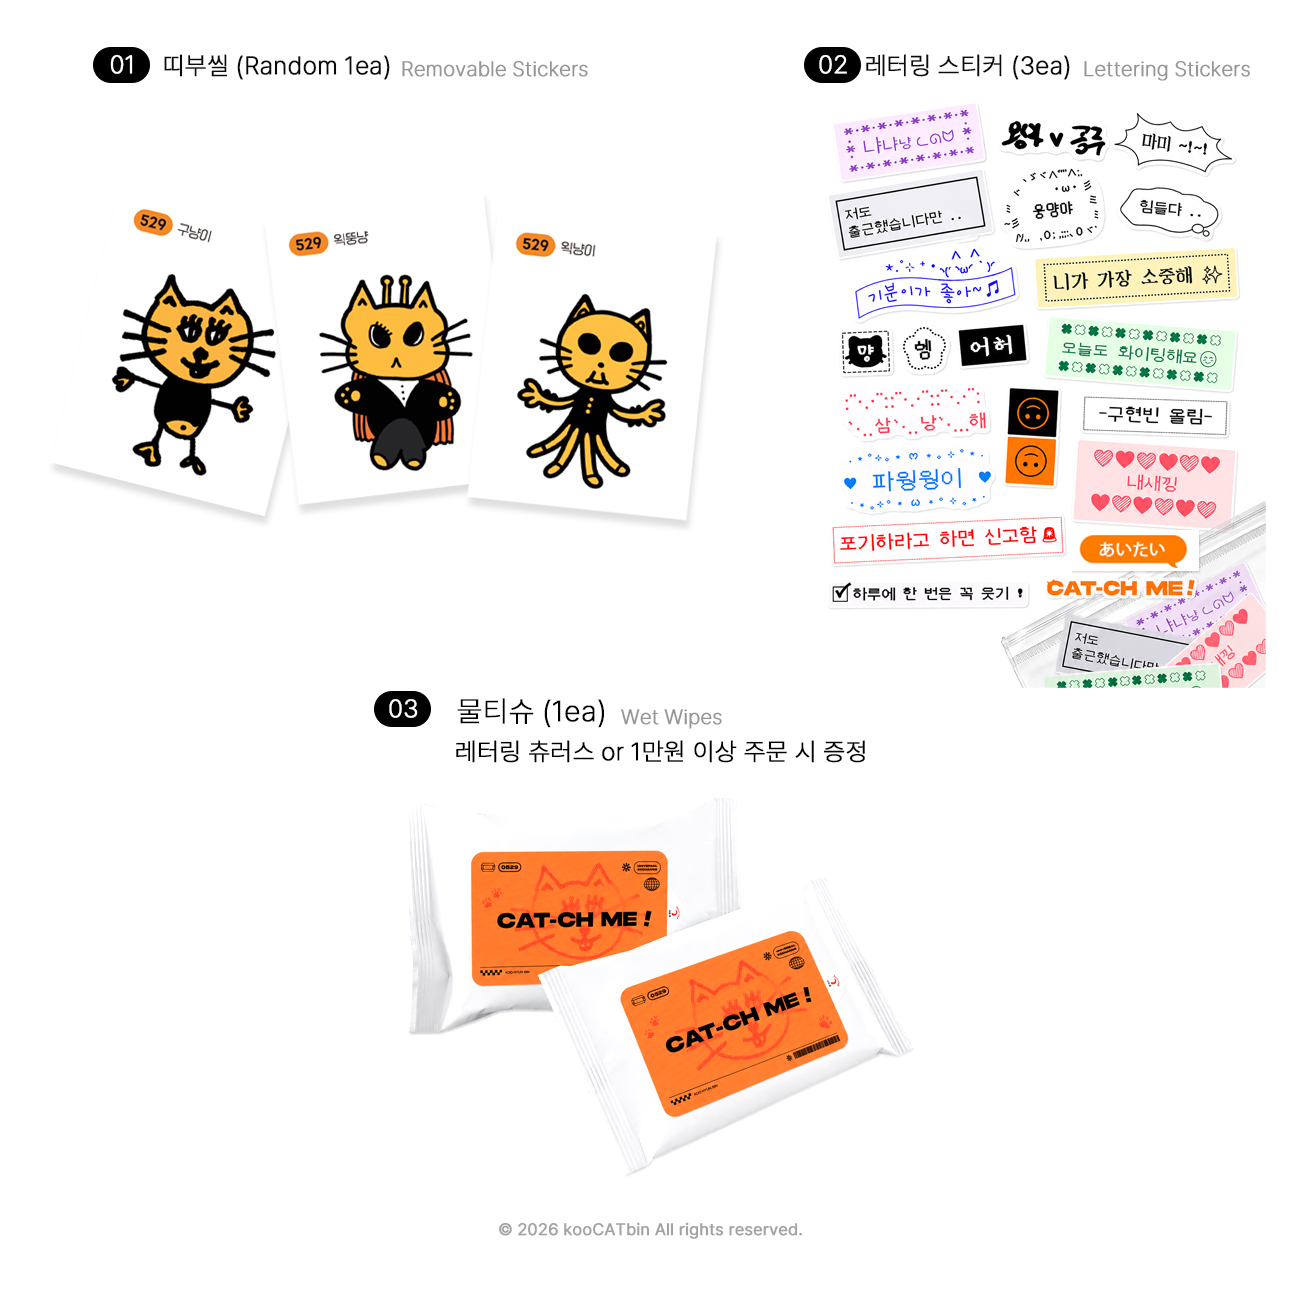
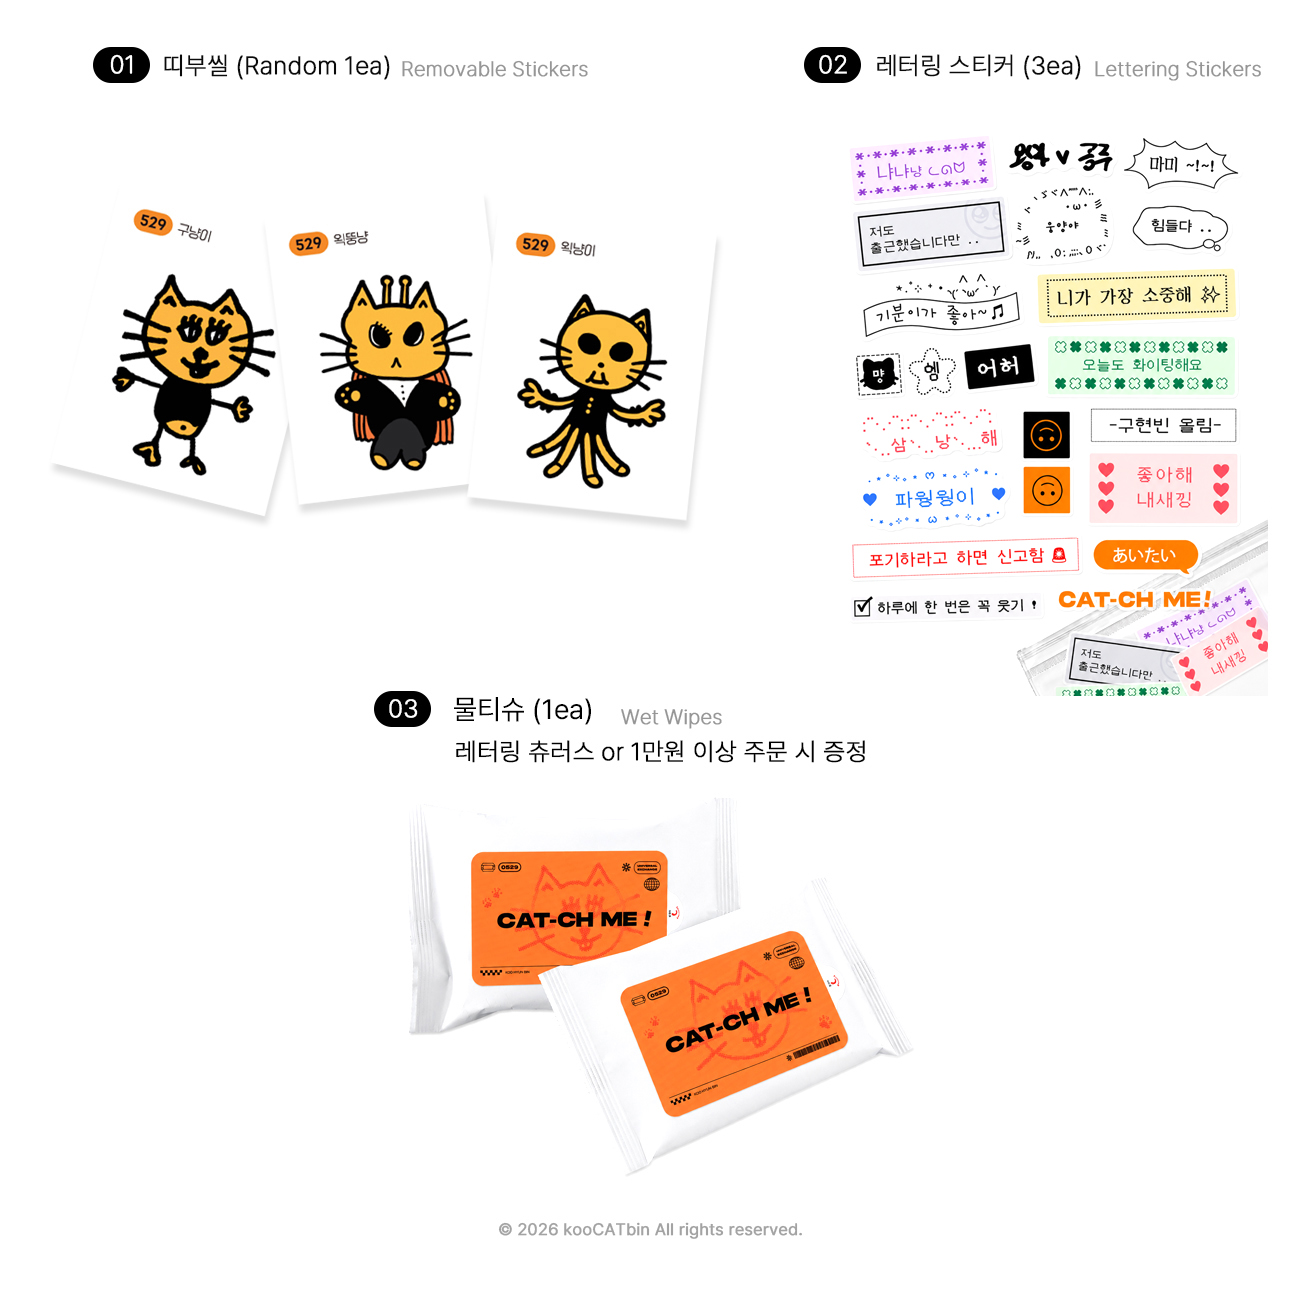
rr

Changed region(s): [[0.6462, 0.0923, 0.9846, 0.5538], [0.6769, 0.0308, 0.9538, 0.0615], [0.3385, 0.5231, 0.4615, 0.5538]]

diff --git a/src/index.css b/src/index.css
@@ -15,6 +15,14 @@ body {
   font-family: "Open Sans", sans-serif;
   font-optical-sizing: auto;
 }
+#root{height:100%; overflow: hidden;}
+
+.start{
+  display: flex;
+  flex-direction: column;
+  align-items: center;
+  justify-content: space-between;
+}
 .loading{
   line-height: 1.5;
   padding: 1rem 0;
@@ -33,6 +41,20 @@ body {
 }
 .screen {
   padding: 1rem;
+  height: calc(100% - 5%);
+}
+button{
+  border: 0;
+}
+.screen .title{
+  margin-top: 2rem;
+}
+.start-btn{
+  font-family:"Kirang Haerang", system-ui;
+  color: #fff;
+  background:#ff4d00;
+  padding: 1rem 2rem;
+  border-radius: 50%;
 }
 .img-main{
   width: 100%;
@@ -88,7 +110,6 @@ button {
 
   z-index: 100;
 }
-
 .lang-switch button {
   border: none;
   outline: none;
@@ -123,6 +144,7 @@ button {
 
   color: #ff4d00;
 }
+.txt-og{color: #ff4d00;}
 /* .end-txt{
     position: fixed;
     bottom: 0;

diff --git a/src/components/startScreen.jsx b/src/components/startScreen.jsx
@@ -58,8 +58,8 @@ export default function StartScreen({
   };
 
   return (
-    <div className="screen">
-      <h1>Catch the Koonyang!</h1>
+    <div className="screen start">
+      <h1 className="title">Catch the Koonyang!</h1>
 
       <p>
         POW 현빈의 생일을 맞아 오늘 하루 05/29 특별 이벤트를 진행합니다.<br/>
@@ -90,7 +90,7 @@ export default function StartScreen({
 
       <button
         onClick={onStart}
-        disabled={alreadyPlayed}
+        className="start-btn"
       >
         START
       </button>

diff --git a/src/i18n/en.js b/src/i18n/en.js
@@ -1,8 +1,9 @@
 export const en = {
   notice: {
     title: "Notice",
-    gift:"Gift",
+    gift:"Special Gift",
     benefit: "Removable stickers (Random 1ea), Lettering stickers",
+    giftWarn: "Special gift request required when placing an order!!",
     giftSub: "One set per person when ordering churros or churodog menu",
     extraGift: "<bold>Wet wipes</bold> for lettering churros or orders over 10,000 KRW",
     reservation: "<b>Lettering churros are only available by reservation</b>",

diff --git a/src/components/noticeScreen.jsx b/src/components/noticeScreen.jsx
@@ -29,6 +29,7 @@ function NoticeScreen() {
                 <img src={giftImage} alt="main" className="img-main" />
                 <p>{t("notice.benefit")}</p>
                 <div className="s-txt-wrap">
+                    <p className="s-txt txt-og">{t("notice.giftWarn")}</p>
                     <p className="s-txt">{t("notice.giftSub")}</p>
                     <p className="s-txt"><Trans
                         i18nKey="notice.extraGift"

diff --git a/src/i18n/ko.js b/src/i18n/ko.js
@@ -3,6 +3,7 @@ export const ko = {
     title: "공지사항",
     gift: "특전",
     benefit: "띠부씰 (랜덤 1종), 레터링 스티커",
+    giftWarn: "주문시 특전요청 필수 !!",
     giftSub: "모든 츄러스, 츄로도그 메뉴 주문 시 1인당 1세트 증정",
     extraGift:
     "레터링 츄러스 or 1만원 이상 구매 시 <bold>물티슈</bold> 추가 증정",